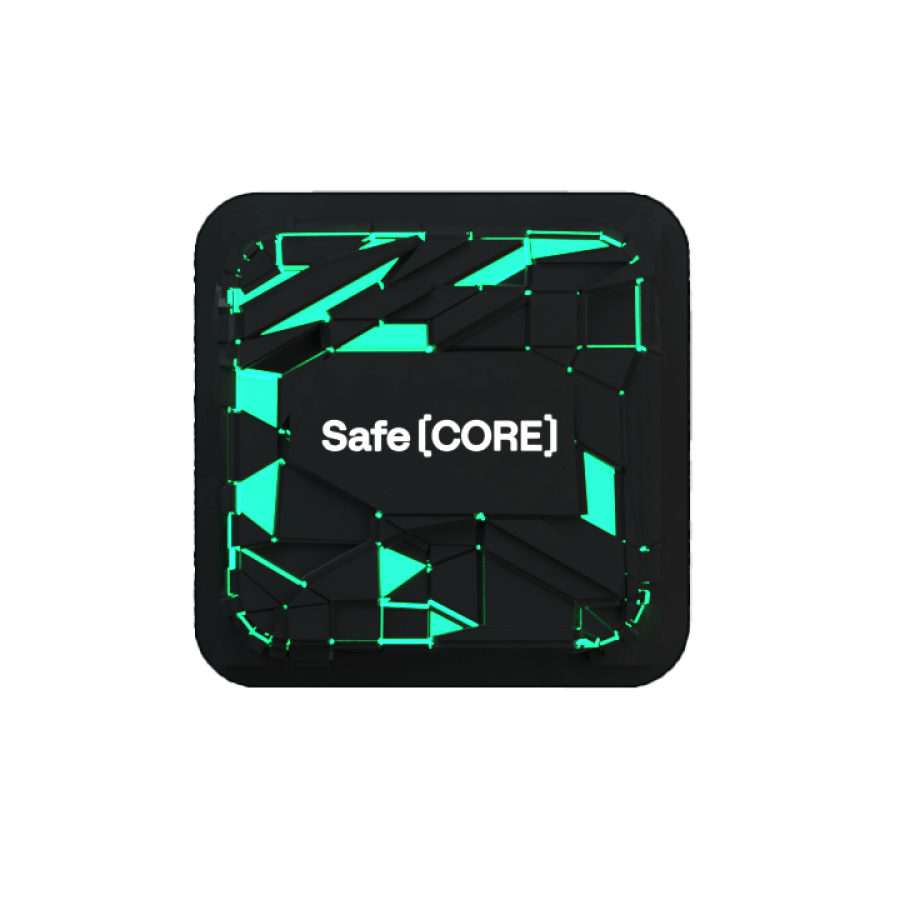
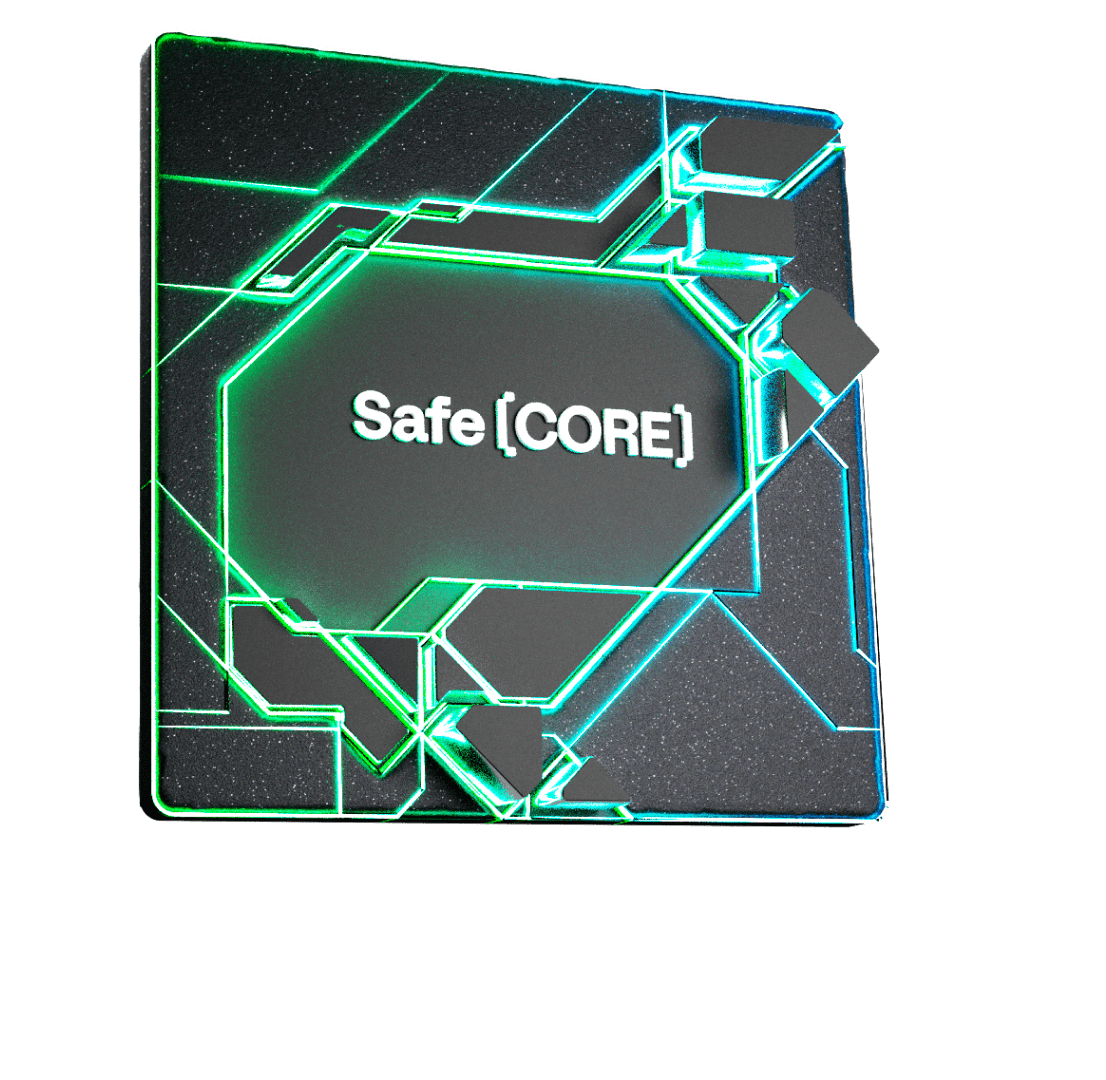
Remove fullSize attribute from links (#133)
* Remove fullSize attribute from links

* Update core intro image

diff --git a/src/components/Wallet/TextRadialAnimation/index.tsx b/src/components/Wallet/TextRadialAnimation/index.tsx
@@ -21,7 +21,7 @@ const TextRadialAnimation = ({ title, text, link }: BaseBlock) => {
           <Typography mb={{ xs: 3, md: 5 }}>{text}</Typography>
           {link && (
             <Link href={link.href} passHref target="_blank" rel="noreferrer">
-              <LinkButton fullSize>{link.title}</LinkButton>
+              <LinkButton>{link.title}</LinkButton>
             </Link>
           )}
         </Grid>

diff --git a/src/components/Wallet/ParallaxText/index.tsx b/src/components/Wallet/ParallaxText/index.tsx
@@ -52,7 +52,7 @@ const ParallaxText = ({
                 }
                 return (
                   <Link key={index} href={href} passHref target="_blank" rel="noreferrer">
-                    <LinkButton fullSize>{text}</LinkButton>
+                    <LinkButton>{text}</LinkButton>
                   </Link>
                 )
               })}
